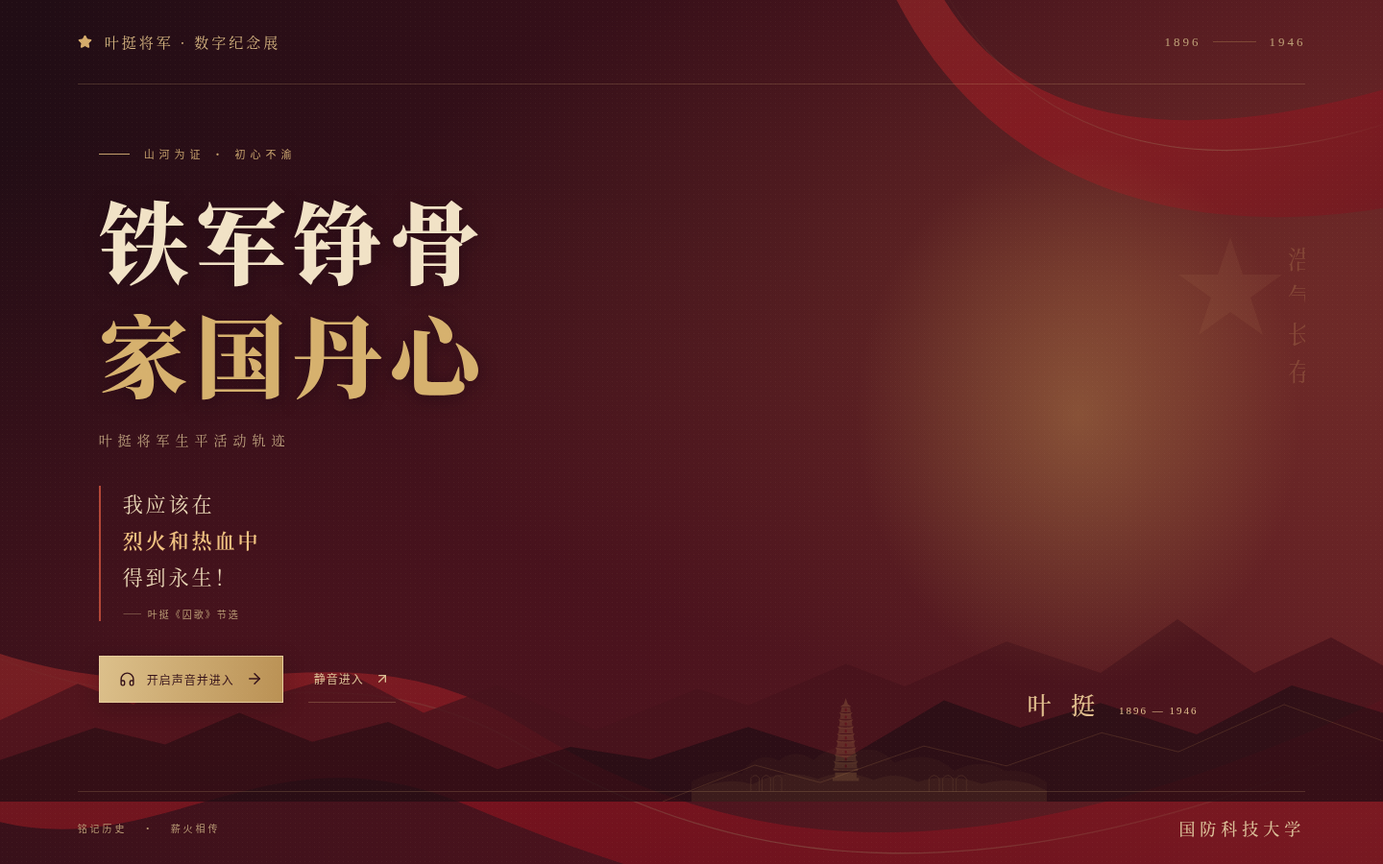
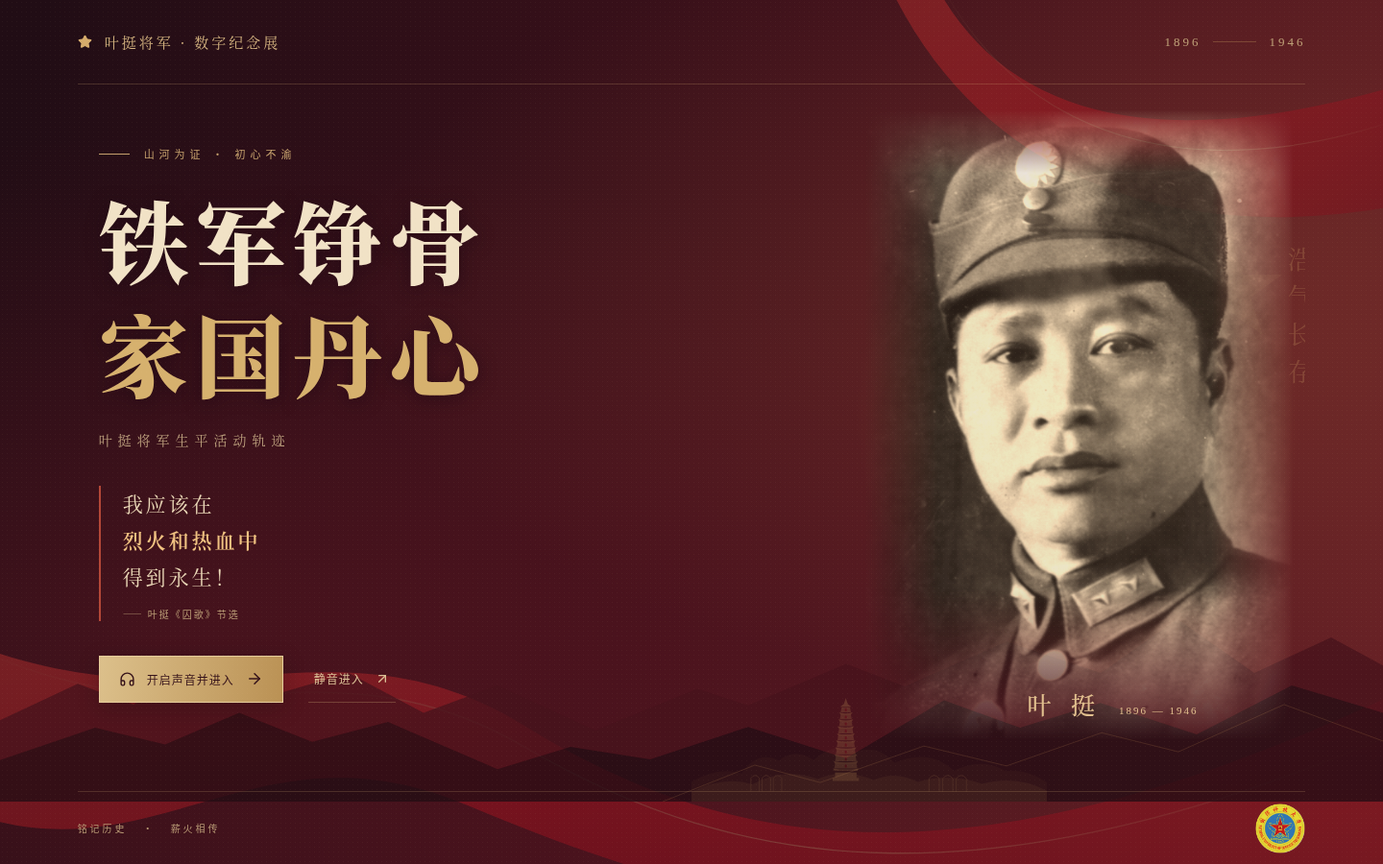
新增密码验证入口并将文字署名替换为校徽

Changed region(s): [[0.625, 0.1244, 0.9375, 0.84], [0.8438, 0.9333, 0.9688, 0.9956]]

diff --git a/src/ExhibitDialog.jsx b/src/ExhibitDialog.jsx
@@ -3,6 +3,7 @@ import { ArrowLeft, ArrowRight, ArrowUpRight, BookOpen, ChevronLeft, ChevronRigh
 import { allEvents, getPeriod, periodization, sources } from './history';
 import { media } from './media';
 import { YananSkyline } from './RedHeritage';
+import UniversityEmblem from './UniversityEmblem';
 export function ArchiveImage({ item, thumbnail = false, ...props }) {
   const [failed, setFailed] = useState(false);
   useEffect(() => setFailed(false), [item.id, thumbnail]);
@@ -54,7 +55,7 @@ export default function ExhibitDialog({ panel, event, onClose, onStep, onOpenEve
         </div>
         <div className="dialog-bottom"><button onClick={() => onStep(-1)} disabled={index === 0}><ArrowLeft size={16}/><span>上一事件</span></button><button className="story-share" onClick={onShare}><Share2 size={15}/><span>分享展签</span></button><span className="story-counter">{String(index + 1).padStart(2, '0')} / 20</span><button onClick={() => onStep(1)} disabled={index === allEvents.length - 1}><span>下一事件</span><ArrowRight size={16}/></button></div>
       </>}
-      {panel === 'sources' && <article className="panel-content"><h2 id="dialog-title">史料文献</h2><details className="exhibition-note periodization-note"><summary>生平分期依据</summary><p>{periodization.text}</p>{periodization.refs.map((id, i) => <Reference key={id} source={sources[id]} number={i + 1}/>)}</details><div className="source-list">{Object.values(sources).map((source, i) => <Reference key={source.url} source={source} number={i + 1}/>)}</div><h3>展览影像</h3><div className="media-catalog">{Object.values(media).map((m) => <figure key={m.id}><ArchiveImage item={m} thumbnail loading="lazy"/><Credit item={m}/></figure>)}</div><details className="exhibition-note"><summary>展览说明</summary><p>正文依据所列文献撰写，历史影响部分包含策展解读。图片注明实际年代，遗址今照作为地点资料；AI 艺术示意不作为历史影像或史实依据。地图为现代地理底图，连线仅表示事件顺序；1937年以全面抗战爆发为篇章分界。</p></details><p className="panel-signature">国防科技大学</p></article>}
+      {panel === 'sources' && <article className="panel-content"><h2 id="dialog-title">史料文献</h2><details className="exhibition-note periodization-note"><summary>生平分期依据</summary><p>{periodization.text}</p>{periodization.refs.map((id, i) => <Reference key={id} source={sources[id]} number={i + 1}/>)}</details><div className="source-list">{Object.values(sources).map((source, i) => <Reference key={source.url} source={source} number={i + 1}/>)}</div><h3>展览影像</h3><div className="media-catalog">{Object.values(media).map((m) => <figure key={m.id}><ArchiveImage item={m} thumbnail loading="lazy"/><Credit item={m}/></figure>)}</div><details className="exhibition-note"><summary>展览说明</summary><p>正文依据所列文献撰写，历史影响部分包含策展解读。图片注明实际年代，遗址今照作为地点资料；AI 艺术示意不作为历史影像或史实依据。地图为现代地理底图，连线仅表示事件顺序；1937年以全面抗战爆发为篇章分界。</p></details><UniversityEmblem/></article>}
       {panel === 'spirit' && <article className="panel-content spirit-panel"><YananSkyline className="spirit-skyline"/><h2 id="dialog-title">山河铭记<br/>精神不朽<span>。</span></h2><blockquote>我应该在烈火和热血中<br/>得到永生！</blockquote><p>叶挺《囚歌》节选 · 据《学习时报》转引</p><div className="spirit-values"><div><strong>赤诚报国</strong><p>从求学救国到投身抗战，在时代的选择中承担责任。</p></div><div><strong>铮铮铁骨</strong><p>历经五年囚禁，以诗明志，守住人格与尊严。</p></div><div><strong>信仰如磐</strong><p>重获自由的第二天，再次郑重提出入党申请。</p></div></div><button className="primary-button" onClick={() => onOpenEvent('prison')}>走近《囚歌》背后的故事 <ArrowUpRight size={17}/></button></article>}
       {panel === 'settings' && <article className="panel-content settings-panel"><h2 id="dialog-title">声音与展厅设置</h2><div className="music-card"><span className={`sound-bars ${sound.playing && !sound.muted ? 'active' : ''}`} aria-hidden="true"><i/><i/><i/><i/><i/></span><div><strong>Reverie</strong><p>钢琴 · 弦乐</p></div><button className="icon-button" onClick={sound.toggle} aria-label={sound.playing ? '暂停音乐' : '播放音乐'}>{sound.playing ? <Pause/> : <Play/>}</button></div>{sound.error && <p role="status" className="audio-error">配乐暂时无法播放，仍可继续浏览。点击播放可重试。</p>}<label className="volume-row"><span>音乐音量 <b>{Math.round(sound.volume * 100)}%</b></span><input type="range" min="0" max="1" step=".01" value={sound.volume} onChange={(e) => sound.setVolume(Number(e.target.value))} aria-label="音乐音量"/></label><button className="setting-row" aria-pressed={sound.muted} onClick={sound.toggleMute}><span>{sound.muted ? <VolumeX size={18}/> : <Volume2 size={18}/>}全局静音</span><i className={`toggle ${sound.muted ? 'on' : ''}`}/></button><button className="setting-row" aria-pressed={sound.effects} onClick={() => sound.setEffects(!sound.effects)}><span>交互音效</span><i className={`toggle ${sound.effects ? 'on' : ''}`}/></button><button className="setting-row" aria-pressed={reducedMotion} onClick={() => setReducedMotion(!reducedMotion)}><span>减少动效</span><i className={`toggle ${reducedMotion ? 'on' : ''}`}/></button><button className="setting-row" aria-pressed={showRoutes} onClick={() => setShowRoutes(!showRoutes)}><span>显示轨迹连线</span><i className={`toggle ${showRoutes ? 'on' : ''}`}/></button></article>}
       {panel === 'share' && <article className="panel-content"><h2 id="dialog-title">分享这段历史</h2><p>复制链接，即可直接打开“{event.title}”展签。</p><input className="share-input" value={shareUrl} readOnly onFocus={(e) => e.target.select()} aria-label="事件分享链接"/><button className="primary-button" onClick={onShare}>复制链接 <Share2 size={16}/></button></article>}

diff --git a/src/access-gate.css b/src/access-gate.css
@@ -1,0 +1,47 @@
+.access-gate{
+  position:relative;isolation:isolate;min-height:100dvh;box-sizing:border-box;
+  display:flex;flex-direction:column;overflow:hidden;padding:0 clamp(20px,5.6vw,100px);
+  background:radial-gradient(ellipse at 73% 28%,#a32b3540,transparent 55%),linear-gradient(125deg,#260e16,#571521 70%,#781e28);
+  color:#f3e1bf;
+}
+.access-ribbons{position:absolute;inset:0;width:100%;height:100%;opacity:.18;z-index:-1;pointer-events:none}
+.access-skyline{position:absolute;right:4%;bottom:62px;width:min(580px,90%);height:auto;color:#d8ab6b;opacity:.12;z-index:-1;pointer-events:none}
+.access-header,.access-footer{display:flex;justify-content:space-between;align-items:center;gap:20px;flex-shrink:0}
+.access-header{min-height:76px;border-bottom:1px solid #dfb77730;font-family:var(--serif);font-size:13px;letter-spacing:2px;color:#d6b78a}
+.access-header>span:first-child{display:flex;align-items:center;gap:10px}
+.access-header>span:last-child{font-family:Georgia,serif;font-size:11px;white-space:nowrap}
+.access-stage{flex:1;display:grid;place-items:center;padding:48px 0}
+.access-card{width:100%;max-width:430px;box-sizing:border-box;text-align:center;padding:39px 40px 38px;background:linear-gradient(150deg,#571925ed,#310f19f2);border:1px solid #cda26370;box-shadow:0 22px 65px #14071055;position:relative}
+.access-card:before,.access-card:after{content:"";position:absolute;width:42px;height:42px;pointer-events:none;border-color:#edc98a;border-style:solid}
+.access-card:before{top:-1px;left:-1px;border-width:2px 0 0 2px}
+.access-card:after{right:-1px;bottom:-1px;border-width:0 2px 2px 0}
+.access-emblem{display:grid;place-items:center;margin:0 auto 20px;width:49px;height:49px;color:#edc68b;border:1px solid #d5ab6b70;background:#ba28323d}
+.access-kicker{font-size:10px;letter-spacing:4px;color:#d3ad78;margin-bottom:16px}
+.access-card h1{font-family:var(--serif);font-size:42px;font-weight:700;letter-spacing:7px;line-height:1.38;padding-left:7px;color:#f6e7cd}
+.access-card h1 span{display:block;color:#e2bc79}
+.access-subtitle{font-family:var(--serif);font-size:12px;letter-spacing:3px;color:#d3b591;margin-top:16px}
+.access-form{margin-top:31px;text-align:left}
+.access-form label{display:block;color:#e3c8a0;font-size:12px;letter-spacing:2px;margin-bottom:10px}
+.access-field{display:flex;align-items:center;min-width:0;border:1px solid #ba915c87;background:#210e18b8;color:#c6a271;padding-left:14px}
+.access-field:focus-within{border-color:#f4d296;box-shadow:0 0 0 2px #e4bd7426}
+.access-field.has-error{border-color:#f4a795}
+.access-field input{flex:1;width:0;min-width:0;height:50px;padding:0 11px;border:0;background:transparent;outline:none;color:#fff0d2;font-size:16px;letter-spacing:1px;border-radius:0}
+.access-field input:focus-visible{outline:none}
+.access-field input::placeholder{font-size:12px;letter-spacing:2px;color:#b7a08a}
+.access-field input:autofill{box-shadow:0 0 0 100px #2e1420 inset;-webkit-text-fill-color:#fff0d2}
+.access-visibility{display:grid;place-items:center;width:46px;height:50px;flex-shrink:0;color:#d9b584}
+.access-visibility:focus-visible{outline-offset:-4px}
+.access-error{min-height:26px;margin:0;padding-top:6px;box-sizing:border-box;color:#ffd0be;font-size:11px;line-height:1.6}
+.access-submit{width:100%;min-height:49px;display:flex;align-items:center;justify-content:center;gap:18px;background:linear-gradient(105deg,#e5c68f,#c7a265);border:1px solid #f2d59f;color:#36131b;font-size:13px;letter-spacing:3px}
+.access-submit:hover{background:#eed39d;color:#36131b}
+.access-footer{min-height:72px;border-top:1px solid #dfb77730}
+.access-footer>span{font-size:10px;letter-spacing:2px;color:#c5a67f}
+.access-footer strong{font-family:var(--serif);font-size:16px;font-weight:500;letter-spacing:4px;color:#ead0a8}
+@media(max-width:640px){
+  .access-header{min-height:62px;font-size:10px;letter-spacing:1px;gap:12px}
+  .access-header>span:first-child{gap:7px}.access-header>span:last-child{font-size:9px;letter-spacing:.5px}
+  .access-stage{padding:30px 0}.access-card{padding:32px 26px}.access-card h1{font-size:38px;letter-spacing:5px;padding-left:5px}
+  .access-subtitle{font-size:11px;letter-spacing:2px}.access-footer{min-height:62px;gap:12px}
+  .access-footer>span{font-size:8px;letter-spacing:1px}.access-footer strong{font-size:13px;letter-spacing:2px}
+}
+@media(max-width:360px){.access-card{padding:28px 20px}.access-card h1{font-size:33px}.access-kicker{letter-spacing:2px}.access-header{font-size:9px}.access-header>span:last-child{font-size:8px}.access-stage{padding:24px 0}}

diff --git a/tests/access.spec.js b/tests/access.spec.js
@@ -1,0 +1,80 @@
+import { test, expect } from '@playwright/test';
+
+const password = page => page.getByLabel('访问密码', { exact: true });
+const unlock = async page => {
+  await password(page).fill('yanan');
+  await password(page).press('Enter');
+  await expect(page.locator('.access-gate')).toHaveCount(0);
+};
+
+test('密码验证先于展厅挂载，错误密码不能进入，正确密码和会话记忆有效', async ({ page }) => {
+  const exhibitionRequests = [];
+  page.on('request', request => { if (/\/(data|audio|images\/archive)\//.test(new URL(request.url()).pathname)) exhibitionRequests.push(request.url()); });
+  await page.goto('/');
+  await expect(password(page)).toBeFocused();
+  await expect(page.locator('.exhibit')).toHaveCount(0);
+  await expect(page.locator('.epic-entrance')).toHaveCount(0);
+  await expect(page.locator('.access-footer .university-emblem')).toBeVisible();
+  await page.locator('.access-footer .university-emblem').evaluate(image => image.decode());
+  await page.getByRole('button', {name:'验证并进入'}).click();
+  await expect(page.getByRole('alert')).toHaveText('请输入访问密码。');
+  await password(page).fill('Yanan'); await password(page).press('Enter');
+  await expect(page.getByRole('alert')).toHaveText('密码不正确，请重试。');
+  await expect(password(page)).toBeFocused();
+  await expect(page.locator('.exhibit')).toHaveCount(0);
+  expect(exhibitionRequests).toEqual([]);
+  await unlock(page);
+  await expect(page.locator('.cover-enter')).toBeFocused();
+  await expect(page.locator('.epic-entrance')).toBeVisible();
+  await page.getByRole('button', {name:'静音进入',exact:true}).click();
+  await page.reload();
+  await expect(page.locator('.exhibit.entered')).toBeVisible();
+  await expect(page.locator('.access-gate')).toHaveCount(0);
+  const saved=await page.evaluate(()=>({...sessionStorage}));
+  expect(Object.values(saved)).not.toContain('yanan');
+  await page.evaluate(()=>sessionStorage.removeItem('yeting-access-v1'));
+  await page.reload();
+  await expect(password(page)).toBeVisible();
+  expect(page.url()).not.toContain('yanan');
+});
+
+test('分享链接和旧入场记忆不能绕过密码，验证后仍打开原事件，新标签页需要重新验证', async ({page,context}) => {
+  await page.addInitScript(()=>sessionStorage.setItem('yeting-entered','yes'));
+  await page.goto('/?cover=1&event=prison');
+  await expect(password(page)).toBeVisible();
+  await expect(page.getByRole('dialog')).toHaveCount(0);
+  await unlock(page);
+  await expect(page.locator('#dialog-title')).toContainText('《囚歌》');
+  await expect(page).toHaveURL(/event=prison/);
+  const another=await context.newPage();
+  await another.goto('/?event=rejoin');
+  await expect(password(another)).toBeVisible();
+  await another.close();
+});
+
+test('浏览器禁用会话存储时，正确密码仍可进入，刷新后重新验证', async ({page}) => {
+  await page.addInitScript(()=>{
+    Storage.prototype.getItem=function(){throw new DOMException('Storage unavailable','SecurityError');};
+    Storage.prototype.setItem=function(){throw new DOMException('Storage unavailable','SecurityError');};
+  });
+  await page.goto('/'); await unlock(page);
+  await expect(page.locator('.epic-entrance')).toBeVisible();
+  await page.reload(); await expect(password(page)).toBeVisible();
+});
+
+for(const width of [320,390]) test(`${width}px密码页无横向溢出，显示隐藏密码与键盘提交正常`, async ({page}) => {
+  await page.setViewportSize({width,height:740}); await page.goto('/');
+  await expect(password(page)).toHaveAttribute('type','password');
+  await password(page).fill('yanan');
+  await page.getByRole('button',{name:'显示密码'}).click();
+  await expect(password(page)).toHaveAttribute('type','text');
+  await page.getByRole('button',{name:'隐藏密码'}).click();
+  await expect(password(page)).toHaveAttribute('type','password');
+  expect(await page.evaluate(()=>document.documentElement.scrollWidth<=innerWidth)).toBe(true);
+  for(const selector of ['#access-password','.access-submit','.access-visibility']) {
+    const bounds=await page.locator(selector).boundingBox(); expect(bounds.height).toBeGreaterThanOrEqual(44);
+    await expect(page.locator(selector)).toBeInViewport();
+  }
+  await password(page).press('Enter');
+  await expect(page.locator('.epic-entrance')).toBeVisible();
+});

diff --git a/src/AccessGate.jsx b/src/AccessGate.jsx
@@ -1,0 +1,67 @@
+import { useEffect, useRef, useState } from 'react';
+import { ArrowRight, Eye, EyeOff, LockKeyhole, Star } from 'lucide-react';
+import { RedRibbons, YananSkyline } from './RedHeritage';
+import UniversityEmblem from './UniversityEmblem';
+import './access-gate.css';
+
+// A browser-side entry gate, not server authentication. Never store the password.
+const ACCESS_PASSWORD = 'yanan';
+const SESSION_KEY = 'yeting-access-v1';
+const sessionUnlocked = () => {
+  try { return sessionStorage.getItem(SESSION_KEY) === 'granted'; }
+  catch { return false; }
+};
+
+export default function AccessGate({ children }) {
+  const [unlocked, setUnlocked] = useState(sessionUnlocked);
+  const [password, setPassword] = useState('');
+  const [visible, setVisible] = useState(false);
+  const [error, setError] = useState('');
+  const input = useRef(null);
+
+  useEffect(() => {
+    if (!unlocked) input.current?.focus();
+    else document.querySelector('.cover-enter')?.focus();
+  }, [unlocked]);
+
+  const submit = event => {
+    event.preventDefault();
+    if (password !== ACCESS_PASSWORD) {
+      setError(password ? '密码不正确，请重试。' : '请输入访问密码。');
+      input.current?.focus();
+      input.current?.select();
+      return;
+    }
+    try { sessionStorage.setItem(SESSION_KEY, 'granted'); }
+    catch { /* Browsing still works when session storage is unavailable. */ }
+    setPassword('');
+    setUnlocked(true);
+  };
+
+  if (unlocked) return children;
+
+  return <main className="access-gate" aria-labelledby="access-title">
+    <RedRibbons className="access-ribbons"/>
+    <YananSkyline className="access-skyline"/>
+    <header className="access-header"><span><Star size={15} fill="currentColor"/>叶挺将军 · 数字纪念展</span><span>1896 — 1946</span></header>
+    <div className="access-stage">
+      <section className="access-card">
+        <span className="access-emblem" aria-hidden="true"><Star size={25} fill="currentColor"/></span>
+        <p className="access-kicker">山河为证 · 初心不渝</p>
+        <h1 id="access-title">铁军铮骨<span>家国丹心</span></h1>
+        <p className="access-subtitle">叶挺将军生平活动轨迹</p>
+        <form className="access-form" onSubmit={submit} noValidate>
+          <label htmlFor="access-password">访问密码</label>
+          <div className={`access-field ${error ? 'has-error' : ''}`}>
+            <LockKeyhole size={17} aria-hidden="true"/>
+            <input ref={input} id="access-password" name="exhibit-password" type={visible ? 'text' : 'password'} value={password} onChange={event => { setPassword(event.target.value); setError(''); }} placeholder="请输入密码" autoComplete="current-password" autoCapitalize="none" spellCheck={false} required aria-invalid={Boolean(error)} aria-describedby={error ? 'access-error' : undefined}/>
+            <button type="button" className="access-visibility" onClick={() => setVisible(value => !value)} aria-label={visible ? '隐藏密码' : '显示密码'} aria-pressed={visible}>{visible ? <EyeOff size={18}/> : <Eye size={18}/>}</button>
+          </div>
+          <p id="access-error" className="access-error" role="alert">{error}</p>
+          <button className="access-submit" type="submit">验证并进入<ArrowRight size={18} aria-hidden="true"/></button>
+        </form>
+      </section>
+    </div>
+    <footer className="access-footer"><span>铭记历史 · 薪火相传</span><UniversityEmblem/></footer>
+  </main>;
+}

diff --git a/src/main.jsx b/src/main.jsx
@@ -3,6 +3,8 @@ import { createRoot } from 'react-dom/client';
 import { ArrowUpRight, BookOpen, Check, ChevronRight, Flag, Pause, Play, Settings2, Star, Volume2, VolumeX } from 'lucide-react';
 import MapAtlas from './MapAtlas';
 import Entrance from './Entrance';
+import AccessGate from './AccessGate';
+import UniversityEmblem from './UniversityEmblem';
 import ExhibitDialog, { ArchiveImage } from './ExhibitDialog';
 import Particles from './Particles';
 import { RedRibbons, YananSkyline } from './RedHeritage';
@@ -63,7 +65,7 @@ function App() {
   return <div className={`exhibit ${panel ? 'reading' : ''} ${entered ? 'entered' : ''} mode-${mode}`}>
     <a className="skip-link" href="#event-timeline">跳转至事件时间轴</a>
     <div className="exhibit-space" inert={!entered ? true : undefined}>
-      <header className="exhibit-header"><div className="brand"><span className="brand-seal"><Star size={17} fill="currentColor"/><b>铁军</b></span><div><strong>叶挺<span> · 生平足迹</span></strong><small className="university-signature">国防科技大学</small></div></div>
+      <header className="exhibit-header"><div className="brand"><UniversityEmblem/><div><strong>叶挺<span> · 生平足迹</span></strong></div></div>
         <nav className="period-tabs" role="tablist" aria-label="生平时期">{periods.map((p, i) => <button ref={i === 0 ? enterButton : null} key={p.id} id={`tab-${p.id}`} role="tab" title={p.rangeLabel} aria-selected={period.id === p.id} aria-controls="exhibition-map" tabIndex={period.id === p.id ? 0 : -1} onClick={() => switchPeriod(p.id)} onKeyDown={(e) => { let next; if (e.key === 'ArrowRight') next = (i + 1) % 3; if (e.key === 'ArrowLeft') next = (i + 2) % 3; if (e.key === 'Home') next = 0; if (e.key === 'End') next = 2; if (next !== undefined) { e.preventDefault(); switchPeriod(periods[next].id); document.getElementById(`tab-${periods[next].id}`).focus(); } }}><span>{p.number}</span><strong>{p.tab}</strong></button>)}</nav>
         <div className="header-actions"><button onClick={() => openPanel('spirit')} aria-label="精神丰碑" title="精神丰碑"><Flag size={17}/><span>精神丰碑</span></button><button onClick={() => openPanel('sources')} aria-label="史料文献" title="史料文献"><BookOpen size={17}/><span>史料文献</span></button><button className="icon-button" onClick={() => openPanel('settings')} aria-label="声音与展厅设置" title="声音与展厅设置"><Settings2 size={18}/></button></div>
       </header>
@@ -84,4 +86,4 @@ function App() {
     {toast && <div className="toast" role="status"><Check size={16}/>{toast}</div>}
   </div>;
 }
-createRoot(document.getElementById('root')).render(<React.StrictMode><App/></React.StrictMode>);
+createRoot(document.getElementById('root')).render(<React.StrictMode><AccessGate><App/></AccessGate></React.StrictMode>);

diff --git a/src/Entrance.jsx b/src/Entrance.jsx
@@ -3,6 +3,7 @@ import { ArchiveImage } from './ExhibitDialog';
 import { RedRibbons, YananSkyline } from './RedHeritage';
 import { media } from './media';
 import { sources } from './history';
+import UniversityEmblem from './UniversityEmblem';
 
 export default function Entrance({ onEnter }) {
   return <section className="entrance epic-entrance" aria-labelledby="entrance-title">
@@ -37,6 +38,6 @@ export default function Entrance({ onEnter }) {
       <svg viewBox="0 0 1440 250" preserveAspectRatio="none"><path d="M0 152 81 108 139 133 223 74 286 121 363 95 441 143 518 110 620 164 726 114 779 134 881 84 942 111 1048 57 1146 95 1226 30 1306 95 1386 52 1440 86V250H0Z" fill="#47131c"/><path d="M0 200 99 161 172 181 249 143 325 178 404 154 518 211 594 184 677 199 779 160 881 198 983 128 1062 161 1146 131 1246 169 1345 110 1440 143V250H0Z" fill="#230d14"/><path d="m690 250 96-44 68 21 108-44 86 24 99-40 80 23 110-57 103 44" fill="none" stroke="#b88a50" strokeOpacity=".26"/></svg>
       <YananSkyline className="cover-yanan"/>
     </div>
-    <footer className="cover-footer"><span>铭记历史<span className="cover-footer-dot">·</span>薪火相传</span><strong className="university-signature">国防科技大学</strong></footer>
+    <footer className="cover-footer"><span>铭记历史<span className="cover-footer-dot">·</span>薪火相传</span><UniversityEmblem/></footer>
   </section>;
 }

diff --git a/src/university-emblem.css b/src/university-emblem.css
@@ -1,0 +1,7 @@
+.university-emblem{display:block;width:56px;height:56px;object-fit:contain;flex-shrink:0;border-radius:50%}
+.brand .university-emblem{width:44px;height:44px}
+.brand{align-items:center}
+.cover-footer .university-emblem,.access-footer .university-emblem{width:52px;height:52px;margin:10px 0}
+.panel-content .university-emblem{margin:30px auto 0;width:68px;height:68px}
+@media(max-width:640px){.brand .university-emblem{width:34px;height:34px}.cover-footer .university-emblem,.access-footer .university-emblem{width:44px;height:44px;margin:9px 0}}
+@media(max-width:360px){.brand .university-emblem{width:31px;height:31px}}

diff --git a/src/UniversityEmblem.jsx b/src/UniversityEmblem.jsx
@@ -1,0 +1,5 @@
+import './university-emblem.css';
+
+export default function UniversityEmblem({ className = '' }) {
+  return <img className={`university-emblem ${className}`} src="/images/identity/nudt-emblem.png" alt="国防科技大学校徽" width="56" height="56" decoding="async"/>;
+}

diff --git a/docs/ACCEPTANCE.md b/docs/ACCEPTANCE.md
@@ -5,15 +5,17 @@
 ## 结果
 
 - `npm test`：数据及路线校验通过，包括 20 个原事件 ID、20个事件的标题、时间地点、60段正文、史料说明和摘引与Word主稿一致、段落引用、关联图像、文件存在与许可字段。路线检查覆盖100种宽度、视图和缩放组合，以及手机切换选中节点。
-- 上一轮30项浏览器验收已通过。本轮运行 `npm run test:ui -- --grep '路线|视角|地图标记'`：**8项地图回归通过**，含两项新增的连续缩放检查；补充曲线中点断言后两项新增检查再次通过。测试库现共32项。
-- `npm run build`：生产构建通过。JavaScript 约 360.1 kB（gzip 122.4 kB），CSS 约 67.6 kB（gzip 15.8 kB）。
-- `node scripts/preview-check.mjs`：生产预览正常，36 个大小图文件、2 个地图数据文件、1 个 MP3 共 **39 个素材请求全部成功**，无页面运行时异常；截图前等待主要图片完成解码。
+- `npm run test:ui`：**37项浏览器检查全部通过**，包括5项新增密码入口检查和32项展厅功能回归。
+- `npm run package:site`：生产构建与部署打包通过。JavaScript 约 363.8 kB（gzip 123.4 kB），CSS 约 72.7 kB（gzip 16.9 kB）。部署包包含46个文件，约14.15 MiB。
+- `node scripts/preview-check.mjs`：生产预览正常，36 个大小图文件、2 个地图数据文件、1 个 MP3、1张校徽共 **40 个素材请求全部成功**，无页面运行时异常；截图前等待主要图片完成解码。
 - 1440 × 900 下地图主视区高度占首屏 **78.22%**。1024 × 768 下也满足至少 75%。
 
 ## 已覆盖功能
 
 | 项目 | 验证结果 |
 |---|---|
+| 密码入口 | 固定密码yanan，严格匹配；空值和错误输入有提示；支持显隐与回车；未通过时不挂载展厅，不请求地图、历史图片或配乐；同一标签页会话记忆，存储不可用时仍可验证 |
+| 密码与分享 | 旧入场记忆、封面预览参数、事件分享链接均先经过密码入口；验证后打开原分享事件；新独立标签页及清除验证记录后重新验证 |
 | 入场页 | 暗红旧金、历史肖像、山河与延安剪影；展示《囚歌》节选；五种尺寸无横向溢出，入场按钮高度至少44px；静音进入不请求音乐；会话记忆与分享直达正常 |
 | 封面预览 | `/?cover=1` 可在已进入会话中再次查看封面；点击进入后移除此参数；事件分享链接优先打开事件 |
 | 时间轴 | 全部 20 个事件一键打开，标题、正文、图片与段落引用匹配；正文已去掉三个固定分节标题 |
@@ -28,7 +30,7 @@
 | 图集与键盘 | 图片放大、前后翻阅；事件前后切换；Esc 逐层关闭；Tab 焦点循环及触发按钮焦点恢复 |
 | 艺术示意 | 四幅新绘画 WebP 正常解码，显式标记“AI 艺术示意”；切换到真实照片时标识同步变化；原始生成 PNG 与完整提示词已保存 |
 | 生平分期 | 事件数量为9／4／7，1927年两次起义纳入第一篇章，1937年春迁沪与后续抗战分开；保留原20个ID |
-| 视觉与署名 | 鲜明红金配色、红绸、五角星和宝塔山装饰；网页仅显示国防科技大学署名 |
+| 视觉与校徽 | 鲜明红金配色、红绸、五角星和宝塔山装饰；密码页、封面、展厅页头和资料面板中的文字署名均替换为校徽，本地加载并保留可访问性描述 |
 | 资料面板 | 文献与 18 张关联影像可查阅；网页不显示素材授权署名，完整记录保存在本地素材目录 |
 | 延安素材 | 入场页使用延安剪影；地图入口及延安展签接入宝塔山今照；延安图集可翻阅杨家岭旧址今照 |
 | 音频 | 真实 HTMLAudioElement 播放且时间推进；20% 默认音量；阅读降到 8%；全局静音；后台暂停与返回恢复；主动暂停；交互音效开关 |
@@ -62,6 +64,8 @@
 
 ## 预览截图
 
+- [密码验证页](preview-access.png)
+- [390px 手机密码页](preview-access-mobile.png)
 - [新版史诗封面](preview-entrance.png)
 - [390px 手机封面](preview-entrance-390.png)
 - [320px 手机封面](preview-entrance-320.png)
@@ -78,6 +82,8 @@
 - 生产预览：`http://localhost:4173/`
 - 直接查看封面：`http://localhost:4173/?cover=1`
 
-生产预览复查脚本默认使用 4173 端口，可通过 `PREVIEW_URL` 与 `CHROME_PATH` 更改预览地址、Chrome 路径。脚本会更新上方九张截图。
+生产预览复查脚本默认使用 4173 端口，可通过 `PREVIEW_URL` 与 `CHROME_PATH` 更改预览地址、Chrome 路径。脚本通过密码验证后继续检查展厅，并更新上方十一张截图。
+
+密码页是浏览器端的入口验证，不能作为服务器鉴权；静态代码和素材仍可直接访问。需要真正限制站点受众时，应在部署平台或服务器配置访问控制。
 
 内容依据和日期分歧见 [SOURCES.md](SOURCES.md)；完整文件级署名与许可见 [ASSETS.md](ASSETS.md)。没有将地图连线宣称为精确历史路线，也没有把后期照片标成事件现场。

diff --git a/README.md b/README.md
@@ -2,7 +2,7 @@
 
 叶挺将军生平互动展厅。React + Vite + D3，采用本地中国及世界地图数据，覆盖三个时期、20 个核心事件。以电脑浏览、投影课堂展示为主，适配平板和手机。
 
-界面采用鲜明红金配色，搭配红绸、五角星和宝塔山装饰。网页仅保留“国防科技大学”署名；图片说明与史料补充默认折叠，素材出处保存在本地目录中。
+界面采用鲜明红金配色，搭配红绸、五角星和宝塔山装饰。网页使用国防科技大学校徽替代文字署名；图片说明与史料补充默认折叠，素材出处保存在本地目录中。
 
 封面采用暗红、旧金与历史肖像构图，加入《囚歌》节选“我应该在烈火和热血中得到永生！”。已进入过展厅的会话，可访问 `/?cover=1` 再次查看封面；点击入场后恢复正常会话记忆。
 
@@ -36,6 +36,10 @@ npm run preview -- --port 4173
 
 ## 参观方式
 
+网页首先显示密码页，固定密码为 **yanan**（区分大小写）。验证通过后进入原有封面，同一标签页会话内记住验证结果；分享链接也先验证，再打开对应事件。支持显示／隐藏密码、回车提交和错误提示。
+
+这是前端入口验证，不是服务器认证；静态资源及浏览器收到的代码仍可直接查看。若需真正限制公开访问，应在托管平台或服务器配置访问控制。密码维护位置为 `src/AccessGate.jsx`，修改后重新构建部署包。
+
 - 首次进入可选择“开启声音并进入”或“静音进入”；入场页每个浏览器会话出现一次。分享链接直接进入对应展签，例如 `/?event=rejoin`。
 - 顶部切换三个时期，点击地图标记或底部时间轴直接阅读事件。桌面地图占首屏约 78%；展签关闭保留当前视角。
 - 地图支持拖动、滚轮缩放、按钮缩放、中国地图与海外足迹切换、当前事件定位和复位。聚集地点使用引线避让；引线末端的细点是地理位置，编号圆点便于点击。
@@ -66,6 +70,8 @@ npm run preview -- --port 4173
 | `src/history.js` | 三个时期、事件 ID、日期、坐标、地图标签 |
 | `src/word-copy.json` | 从 Word 导入的事件文字、引用对应关系及主稿校验值 |
 | `src/stories.js` | 将 Word 文案与既有事件图片关联 |
+| `src/AccessGate.jsx` / `src/access-gate.css` | 密码入口、错误提示、会话记忆与响应式样式 |
+| `src/UniversityEmblem.jsx` | 统一的校徽组件；素材存放于 `public/images/identity/` |
 | `src/Entrance.jsx` / `src/entrance.css` | 史诗感封面、历史肖像、《囚歌》节选与响应式构图 |
 | `src/references.js` | 文献标题、作者／机构、日期、性质及链接 |
 | `src/media.js` | 图片题名、日期、说明、署名、许可、大小图路径 |

diff --git a/docs/ASSETS.md b/docs/ASSETS.md
@@ -51,7 +51,7 @@
 - 1921 年军官照为文献中的低清扫描；人物依文件页从左向右列出。
 - “叶挺人物照片”不晚于 1941 年，不能据其名称误标成少年、军校或留苏照片。
 - 1940 年干部合影年份采用文件元数据。1939 年的家庭、军部合影不作为 1927 年起义、1928 年旅欧或 1938 年岩寺现场照片。
-- 页面仅显示国防科技大学署名，不显示素材作者或授权文字；本目录留存素材出处。延安素材元数据见 [yanan-metadata.json](yanan-metadata.json)。既有 Commons API 元数据存放在 [archive-metadata.json](archive-metadata.json)；既有肖像使用对应的 Ye Ting.jpg 文件页。
+- 页面使用国防科技大学校徽替代文字署名，不显示素材作者或授权文字；本目录留存素材出处。延安素材元数据见 [yanan-metadata.json](yanan-metadata.json)。既有 Commons API 元数据存放在 [archive-metadata.json](archive-metadata.json)；既有肖像使用对应的 Ye Ting.jpg 文件页。
 
 ## 艺术示意
 
@@ -68,6 +68,13 @@
 ## 装饰
 
 红绸、五角星、宝塔山与窑洞意象为项目原创 SVG 装饰，见 src/RedHeritage.jsx，不作为历史照片或建筑测绘图。
+
+## 校徽
+
+- 展示文件：[国防科技大学校徽](../public/images/identity/nudt-emblem.png)，本地保存，使用原色与等比例显示。用于密码页、封面页脚、展厅页头和资料面板，替代原有文字署名。
+- 设计参照：[学校官方视觉形象识别系统](https://www.nudt.edu.cn/xxgk/sjxxsbxt/bzxhgf/index.htm)。
+- 文件来源：[公开学术主页](https://xiefeng69.github.io/)，[校徽图片原址](https://xiefeng69.github.io/static/56c5cecfea951ef889c308d2ba20a483/dd973/nudt.png)。官网原始下载在当前网络环境无法连接，使用公开副本并核对标志内容；没有重绘校徽或将其宣称为项目原创。
+- 校徽为学校标识，其相关权利归权利人所有；不纳入18张展览影像数量。
 
 ## 配乐
 
